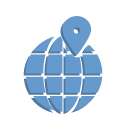
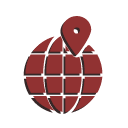
Revamp

diff --git a/Source/gui.html b/Source/gui.html
@@ -9,61 +9,37 @@
 
     <div class="sidenav">
       <button class="tablinks" onclick="openTab(event, 'Maps')"><img src="../Images/Maps.png" style="width:130%;height:130%;margin-left:-13%;"></button>
-      <button class="tablinks" onclick="openTab(event, 'Music')"><img src="../Images/Volume.png" style="width:130%;height:130%;margin-left:-13%;"></button>
       <button class="tablinks" onclick="openTab(event, 'Lights')"><img src="../Images/LED.png" style="width:130%;height:130%;margin-left:-13%;"></button>
+      <button class="tablinks" onclick="openTab(event, 'Video')"><img src="../Images/Video.png" style="width:130%;height:130%;margin-left:-13%;"></button>
       <button class="tablinks" onclick="openTab(event, 'Logs')"><img src="../Images/Logs.png" style="width:130%;height:130%;margin-left:-13%;"></button>
+      <button class="tablinks" onclick="openTab(event, 'Track')"><img src="../Images/Performance.png" style="width:130%;height:130%;margin-left:-13%;"></button>
     </div>
 
     <div id="Maps" class="tabcontent">
       <div id="googleMap" class="mapdirections"></div>
     </div>
 
-    <div id="Music" class="tabcontent">
-      <h2>testing for music</h2>
+    <div id="Lights" class="tabcontent">
+      <h2> testing for lights</h2>
     </div>
 
-    <div id="Lights" class="tabcontent">
-      <h2>testing for lights</h2>
+    <div id="Video" class="tabcontent">
+      <h2> testing for video</h2>
     </div>
 
     <div id="Logs" class="tabcontent">
-      <h2>testing for logs</h2>
+      <h2> testing for logs</h2>
     </div>
 
-    <script>
-      function openTab(evt, tabName) {
-        var i, tabcontent, tablinks;
-      
-        // Hide all elements with class="tabcontent"
-        tabcontent = document.getElementsByClassName("tabcontent");
-        for(i = 0; i < tabcontent.length; i++) {
-          tabcontent[i].style.display = "none";
-        }
-      
-        // Remove "active" class from all elements with class="tablinks"
-        tablinks = document.getElementsByClassName("tablinks");
-        for (i = 0; i < tablinks.length; i++) {
-          tablinks[i].className = tablinks[i].className.replace(" active", "");
-        }
-      
-        // Show current tab and add "active" class to button
-        document.getElementById(tabName).style.display = "block";
-        evt.currentTarget.className += " active";
-      
-      }
-    </script>
+    <div id="Track" class="tabcontent">
+      <h2>testing for track</h2>
+    </div>
 
-    <script>
-      function myMap() {
-      var mapProp= {
-        center:new google.maps.LatLng(38.582050319897576, -121.4957924551412),
-        zoom:12,
-      };
-      var map = new google.maps.Map(document.getElementById("googleMap"),mapProp);
-      }
-    </script>
+    <script type="text/javascript" src="navMenu.js"></script> <!-- move between pages of the nav menu -->
 
-    <script type="text/javascript" src="mapConfig.js"></script> <!-- Script for google maps, kept in separate js file -->
+    <script type="text/javascript" src="mapInit.js"></script> <!-- initialize the map and display it -->
+
+    <script type="text/javascript" src="mapConfig.js"></script> <!-- google maps config -->
 
   </body>
 </html> 

diff --git a/Source/styleGUI.css b/Source/styleGUI.css
@@ -1,6 +1,6 @@
 body {
   font-family: "Lato", sans-serif;
-  background-color: #191A39;
+  background-color: #660000;
 }
 
 .sidenav {
@@ -10,34 +10,35 @@ body {
   z-index: 1;
   top: 0;
   left: 0;
-  background-color: #252655;
+  background-color: #5a0000;
   overflow-x: hidden;
   margin: auto;
-  border: 5px solid #313267;
+  border: 5px solid #730000;
 }
 
 .sidenav button {
   /* margin-left: -13%; */
-  background-color: #252655;
-  border: 5px solid #252655;
+  background-color: #5a0000;
+  border: 5px solid #5a0000;
   display: block;
   transition: 0.3s;
 }
 
 .sidenav button:hover {
-  background-color: #313267;
-  border: 5px solid #313267;
+  background-color: #730000;
+  border: 5px solid #730000;
 }
 
 .sidenav button.active {
-  background-color: #313267;
-  border: 5px solid #313267;
+  background-color: #730000;
+  border: 5px solid #730000;
 }
 
 .tabcontent {
   display: none;
   color: #f1f1f1;
   margin-left: 10%;
+  /* padding-left: 1%; */
   width: 90%;
   height: 100%;
 }
@@ -51,10 +52,10 @@ body {
 }
 
 .mapdirections {
-  width: 40%;
+  width: 31.7%;
   height: 100%;
   display: block;
-  padding: 34%;
+  padding: 34.4%;
 }
 
 /*

diff --git a/Source/navMenu.js b/Source/navMenu.js
@@ -1,0 +1,20 @@
+function openTab(evt, tabName) {
+    var i, tabcontent, tablinks;
+  
+    // Hide all elements with class="tabcontent"
+    tabcontent = document.getElementsByClassName("tabcontent");
+    for(i = 0; i < tabcontent.length; i++) {
+      tabcontent[i].style.display = "none";
+    }
+  
+    // Remove "active" class from all elements with class="tablinks"
+    tablinks = document.getElementsByClassName("tablinks");
+    for (i = 0; i < tablinks.length; i++) {
+      tablinks[i].className = tablinks[i].className.replace(" active", "");
+    }
+  
+    // Show current tab and add "active" class to button
+    document.getElementById(tabName).style.display = "block";
+    evt.currentTarget.className += " active";
+  
+}

diff --git a/Source/mapInit.js b/Source/mapInit.js
@@ -1,0 +1,7 @@
+function myMap() {
+    var mapProp= {
+      center:new google.maps.LatLng(38.582050319897576, -121.4957924551412),
+      zoom:12,
+    };
+    var map = new google.maps.Map(document.getElementById("googleMap"),mapProp);
+}
